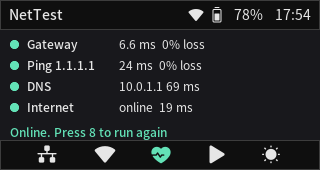
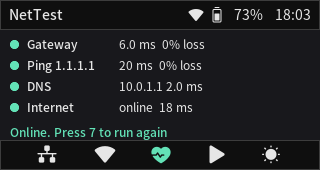
Use the device screenshot in the README and store listing
Retake the Tests page screenshot on the current build (it now shows
key 7), show it at the top of the README, and remove the Template's
simulator screenshots, which showed the Template app, not NetTest.

diff --git a/README.md b/README.md
@@ -1,19 +1,9 @@
 <p align="center">
-  <picture>
-    <source
-      media="(prefers-color-scheme: dark)"
-      srcset="./screenshot/app-simulator-dark-darwin.png"
-    />
-    <source
-      media="(prefers-color-scheme: light)"
-      srcset="./screenshot/app-simulator-light-darwin.png"
-    />
   <img
-    src="./screenshot/app-simulator-light-darwin.png"
-    alt="NetTest running in the desktop simulator"
-    width="315"
+    src="./screenshot/store/tests.png"
+    alt="NetTest's Tests page on a CardputerZero"
+    width="640"
   />
-  </picture>
 </p>
 
 <div align="center">
@@ -68,7 +58,7 @@ Pages:
 │   ├── audio/              # Audio resources
 │   ├── fonts/              # TTF fonts loaded through FreeType
 │   └── images/             # Image resources
-├── screenshot/             # Simulator screenshots for supported desktop platforms
+├── screenshot/store/       # Device screenshots used by the app store listing
 ├── src/
 │   ├── app/                # Application lifecycle, asset loading, screen management
 │   ├── config/             # LVGL config headers for desktop and device builds
